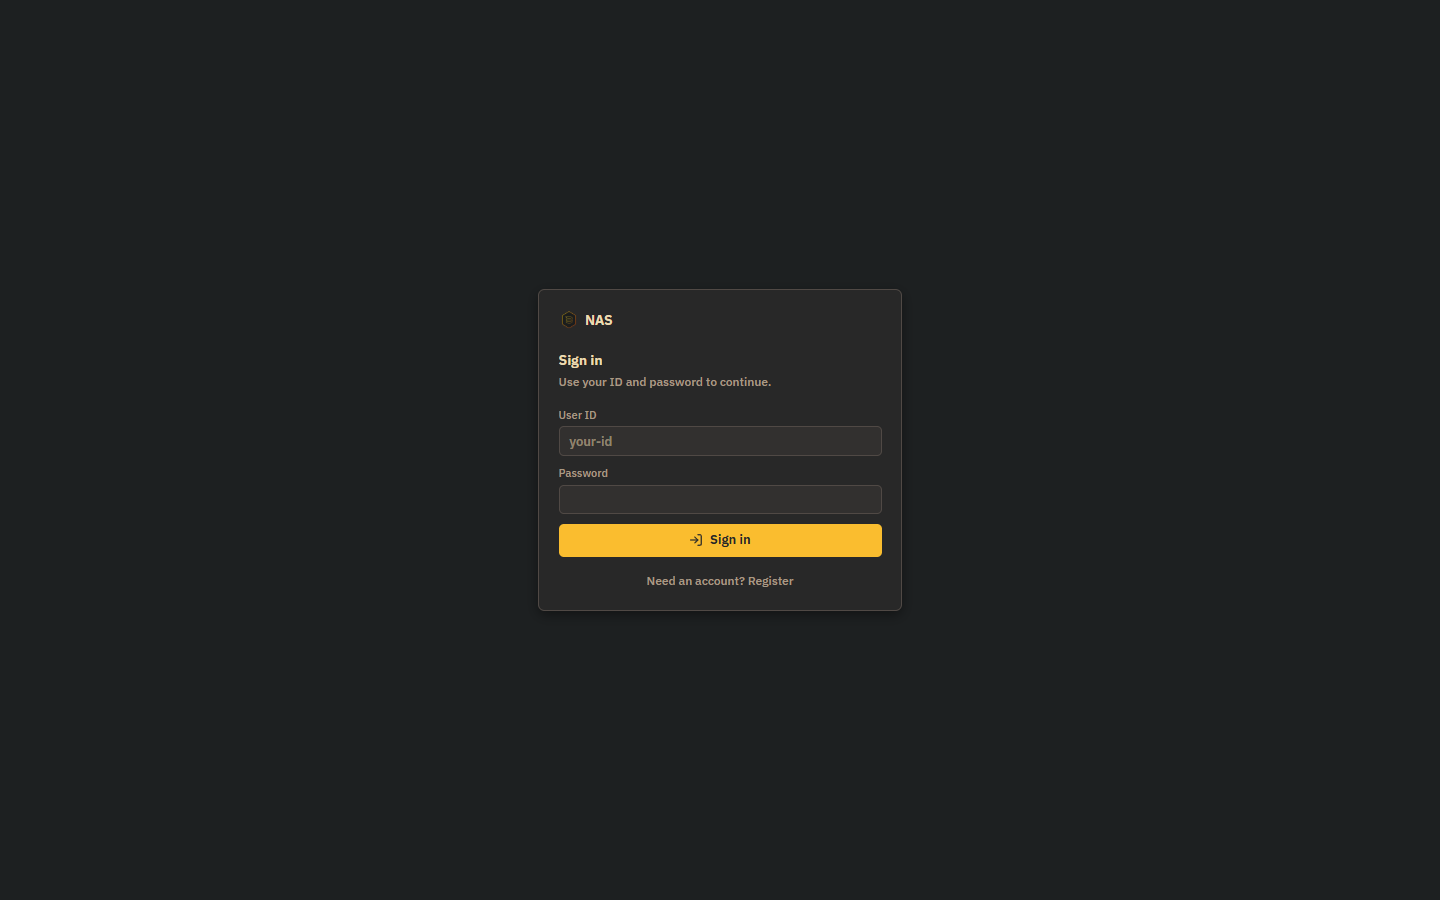
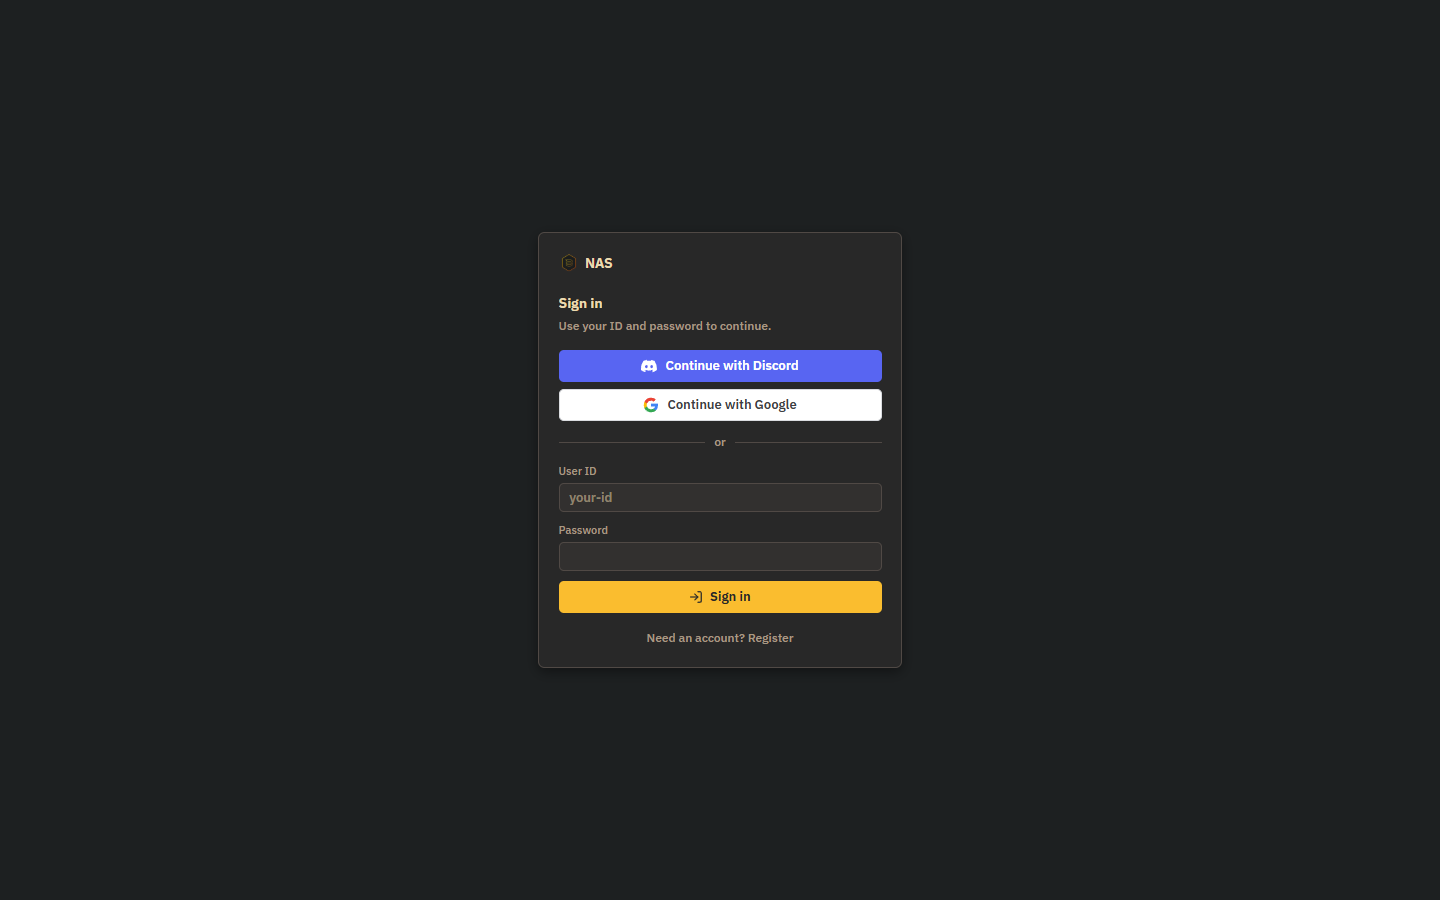
[docs] README: emphasize OAuth in sign-in section + add auth callout
[Body]
- Re-captured 01-login.png with Discord + Google OAuth buttons visible
  · Real SignInOptions.svelte component classes and SVG icons reused
  · Discord (#5865F2) blue + Google white button + 'or' divider + local form
  · Mock applied via Playwright DOM injection — no real OAuth secrets needed
- Added a blockquote callout under the tagline emphasizing the
  three-provider auth (local + Discord + Google) and the runtime-DB
  credential model (no frontend rebuild)
- Rewrote the sign-in screenshot caption to describe the buttons and
  the no-rebuild deploy story

Changed region(s): [[0.375, 0.28, 0.625, 0.7156]]

diff --git a/README_EN.md b/README_EN.md
@@ -29,6 +29,8 @@
 
 NAS is a self-hosted file server. Files on your disk are browsed, streamed and edited straight from the browser, with eight per-user intents (VIEW · OPEN · DOWNLOAD · UPLOAD · COPY · DELETE · RENAME · ADMIN) gating every operation. The Go binary and the static SvelteKit build ship together in a single Alpine image — no CGO required.
 
+> **Auth in one line** — local accounts (bcrypt) plus Discord OAuth plus Google OAuth, all three usable side by side. The backend is the single source of truth, and OAuth credentials are stored in the DB at runtime through the admin UI — no environment-time secrets and no frontend rebuild when you add a provider.
+
 ---
 
 ## Quick start
@@ -105,11 +107,11 @@ Theme and default file view are per-user. Discord/Google OAuth credentials are s
 
 Same idea as VSCode's Quick Open. It searches open tabs, registered surfaces (System · Users · Settings · Activity), and files in the current folder, all from one input.
 
-### Sign-in
+### Sign-in — Discord + Google OAuth and local in one card
 
-![NAS sign-in card on dark background with User ID / Password fields and accent-yellow Sign in button](Docs/screenshots/01-login.png)
+![NAS sign-in card with Continue with Discord button (blue), Continue with Google button (white), or divider, and local User ID / Password fields below](Docs/screenshots/01-login.png)
 
-`AUTH_TYPE` controls which paths appear — local-only, OAuth-only, or both. OAuth providers light up once an admin has registered credentials in Settings.
+`AUTH_TYPE` controls which paths appear — local-only, OAuth-only, or both. The moment an admin registers Discord or Google credentials in Settings, the corresponding button appears above the local form like in the screenshot above. No frontend rebuild required.
 
 ---
 
